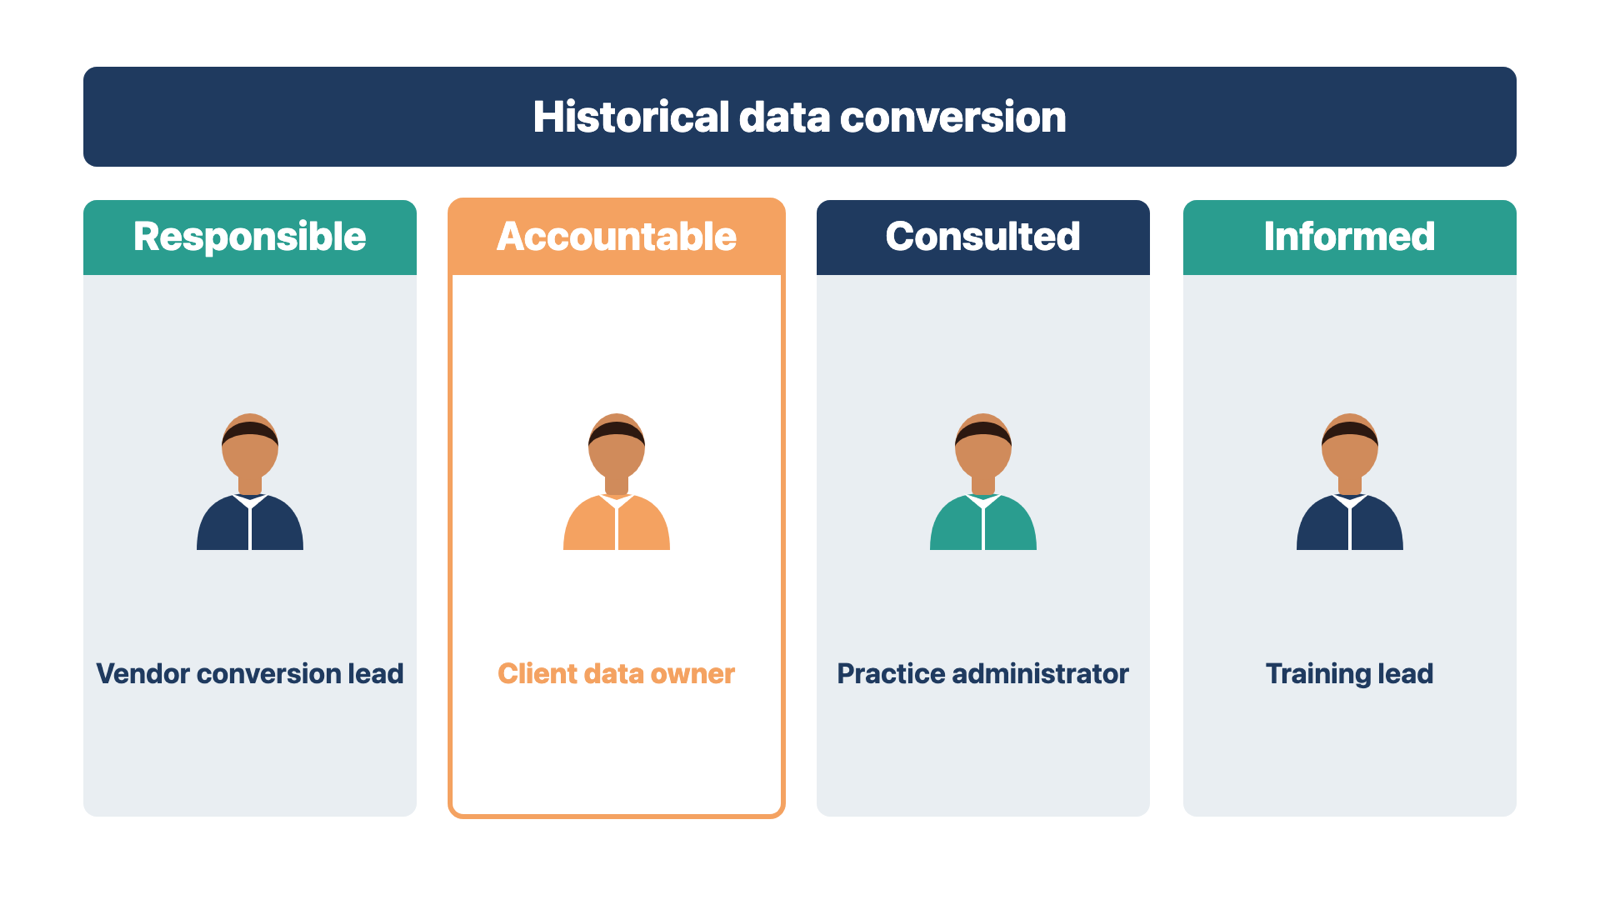
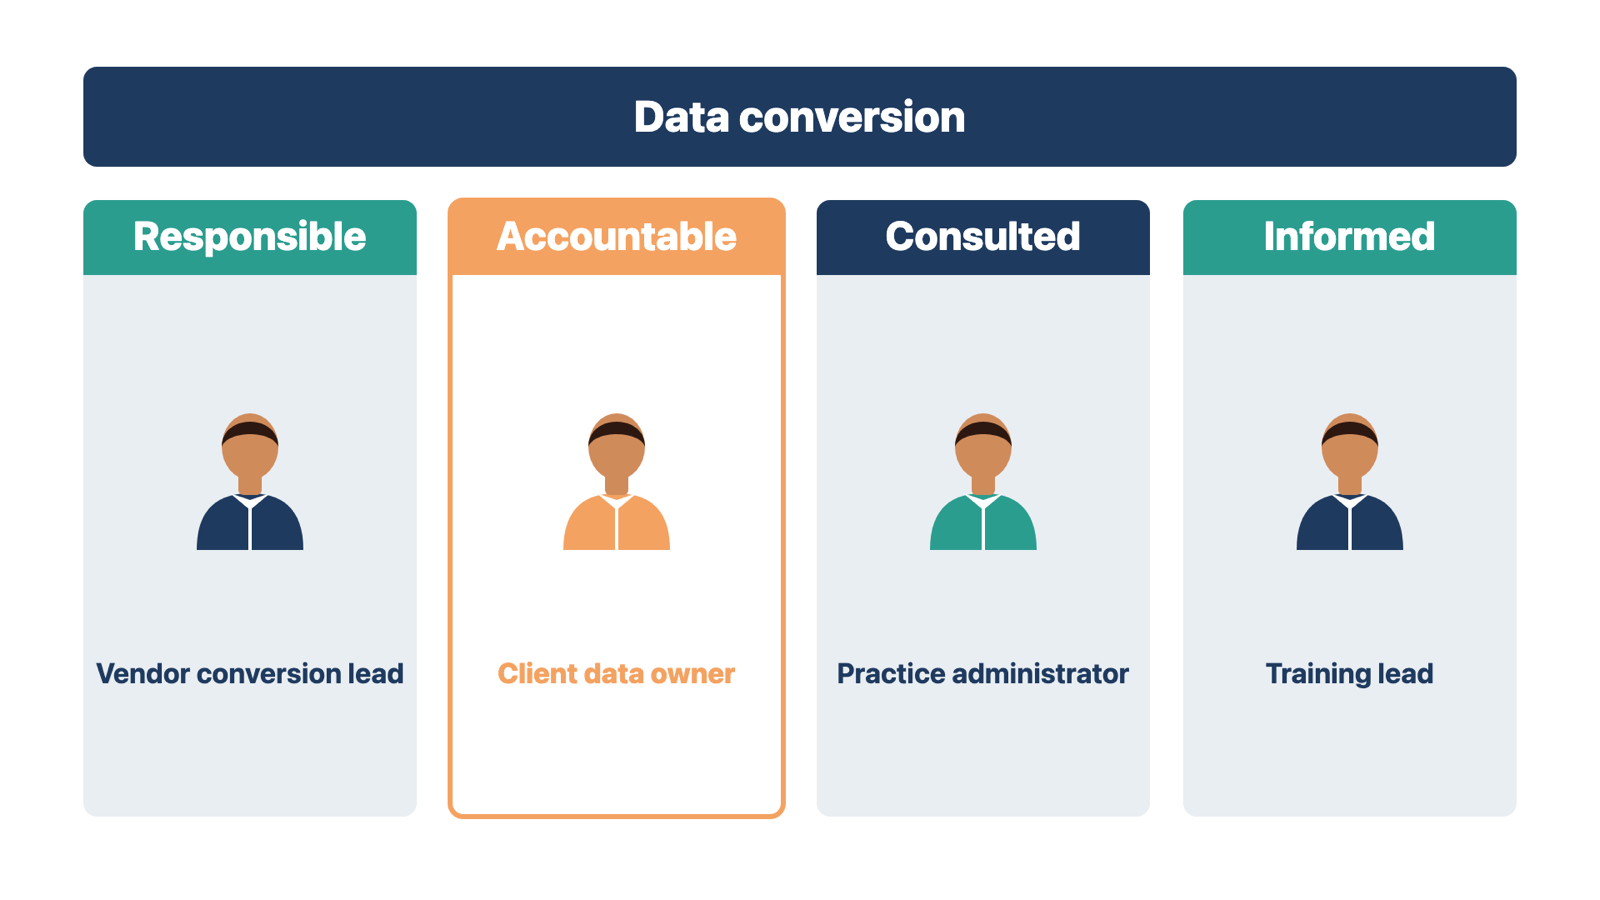
Say data conversion, not historical data conversion

Changed region(s): [[0.3125, 0.0933, 0.6875, 0.1556]]

diff --git a/learn/lessons/M01/L03.html b/learn/lessons/M01/L03.html
@@ -33,7 +33,7 @@ and passes them to many health plans.</p>
 <td>Is the device supported in the target environment?</td>
 </tr>
 <tr>
-<td>Historical data conversion</td>
+<td>Data conversion</td>
 <td>Data conversion lead and client data owner</td>
 <td>What sources, fields, volumes, quality, and retention rules
 apply?</td>
@@ -83,8 +83,8 @@ October 10" is.</p>
 check.</p>
 <p><strong>Check yourself</strong></p>
 <ol type="1">
-<li>Which roles does historical data conversion create, and who approves
-the converted data?</li>
+<li>Which roles does data conversion create, and who approves the
+converted data?</li>
 <li>On a small project, one person fills three roles. Why record each
 role separately?</li>
 </ol>

diff --git a/learn/lessons/M13/L04.html b/learn/lessons/M13/L04.html
@@ -16,8 +16,8 @@ what must it name?</li>
 tests. What else should you test before you call it complete?</li>
 <li>(Module 2) The roadmap lists "Training — March 10" as a milestone.
 Why is this weak, and how would you rewrite it?</li>
-<li>(Module 1) For a historical data conversion, name the four roles you
-record. Which one approves the result?</li>
+<li>(Module 1) For a data conversion, name the four roles you record.
+Which one approves the result?</li>
 </ol>
 <h2 id="module-13-gate--engagement-complete">Module 13 gate — engagement
 complete</h2>
